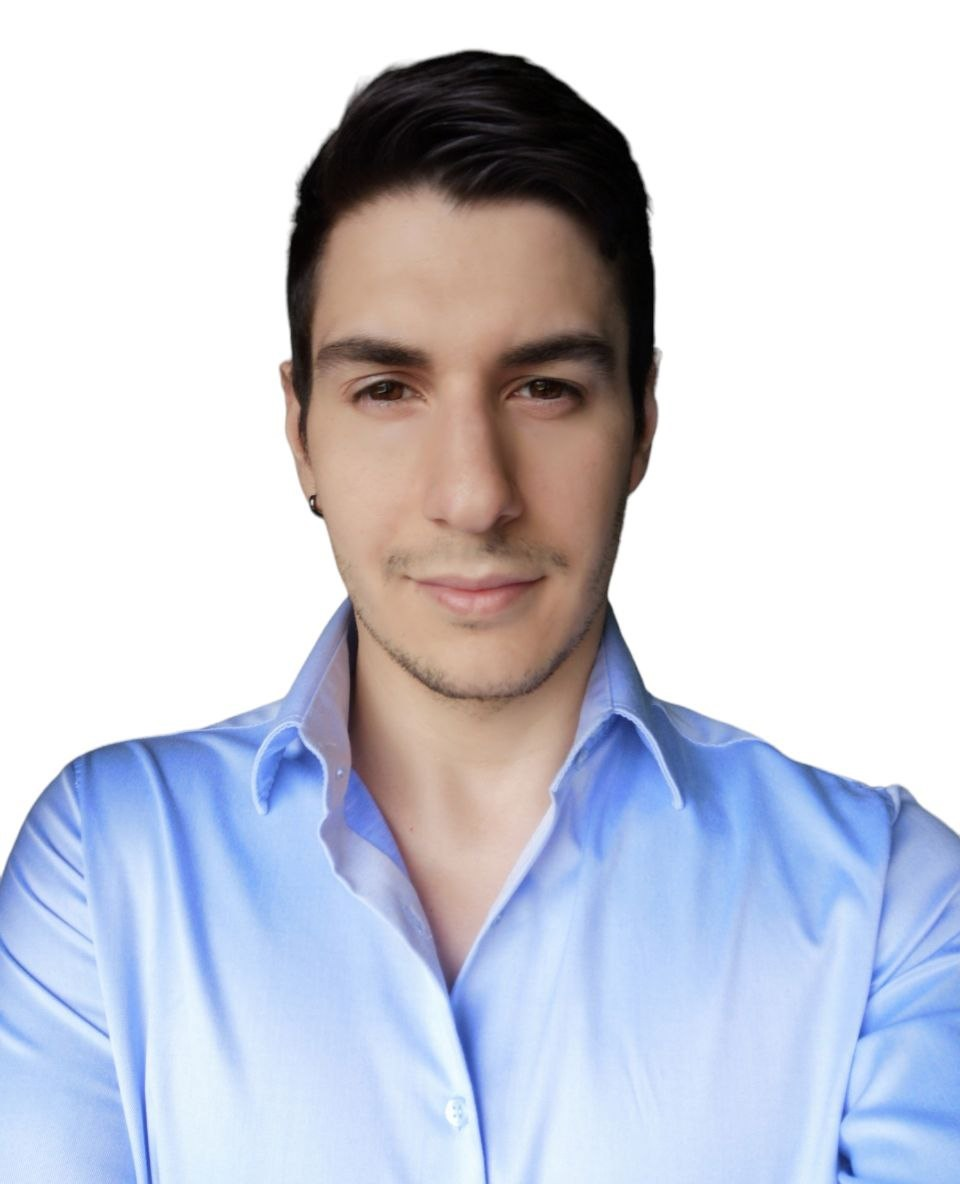
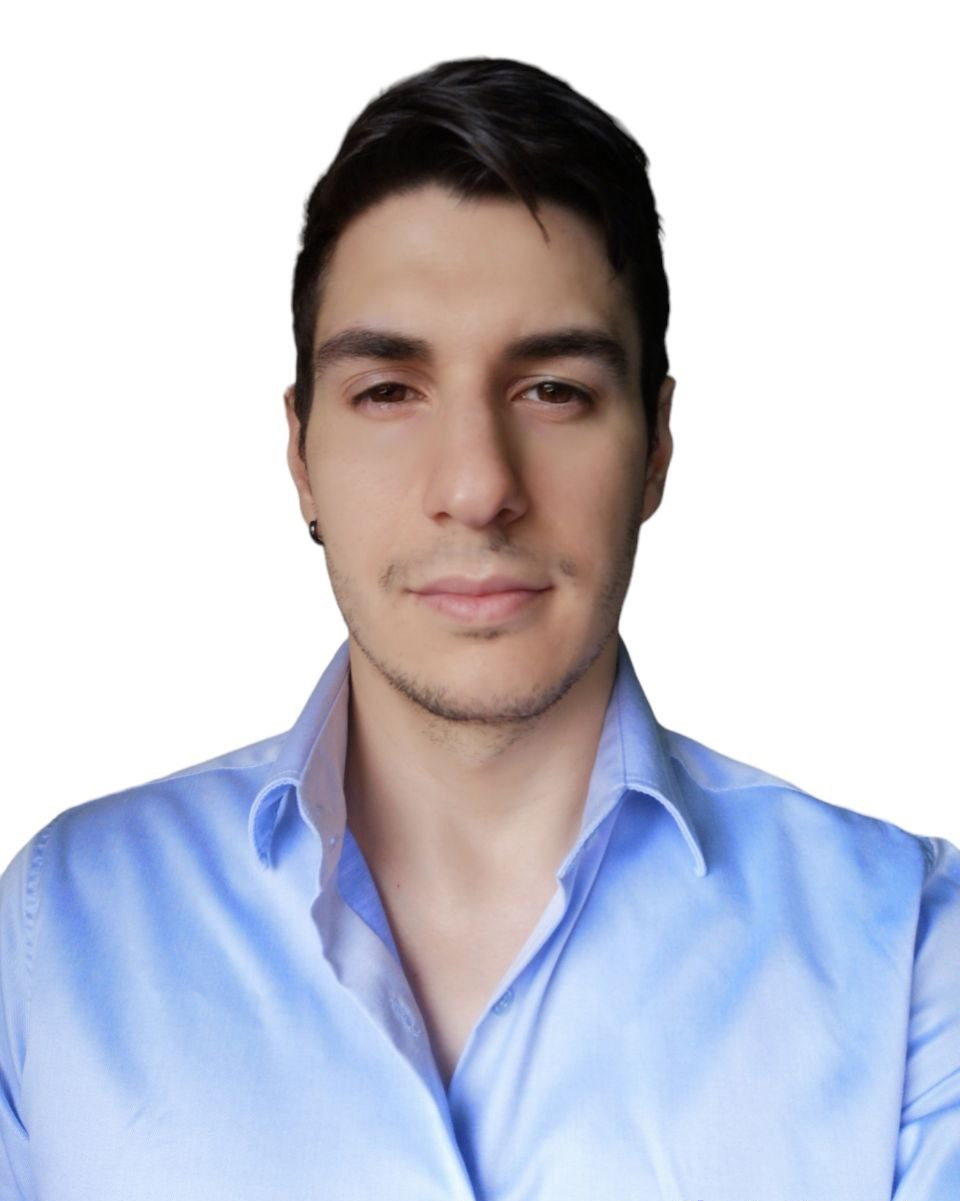
Aggiornata img e aggiunto pointer sul toggle dei colori

Changed region(s): [[0.0, 0.0312, 1.0, 1.0], [0.5625, 0.0625, 0.625, 0.0938]]

diff --git a/css/style.css b/css/style.css
@@ -852,6 +852,9 @@ h3.my-profession{
     .style-switcher{
         top: 80px !important;
     }
+    .style-switcher.open .colors span{
+        cursor: pointer;
+    }
     .about .about-content .personal-info .info-item {
         flex: 0 0 100%;
         max-width: 100%;
